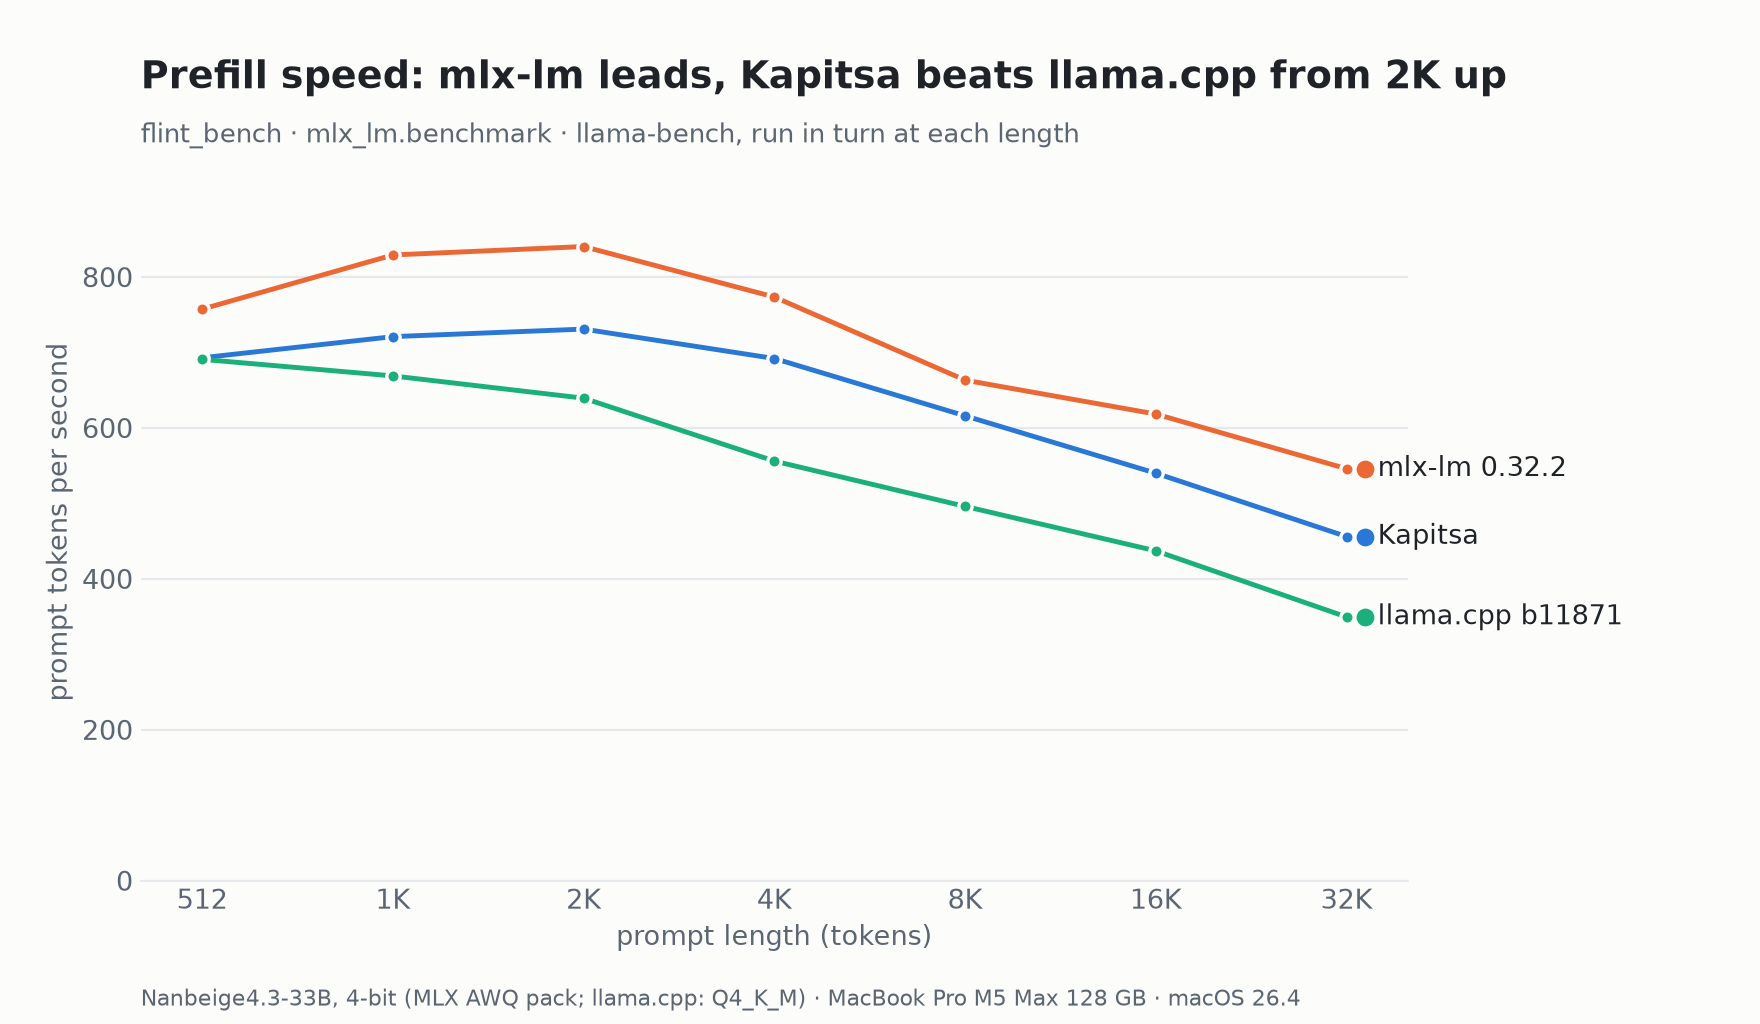
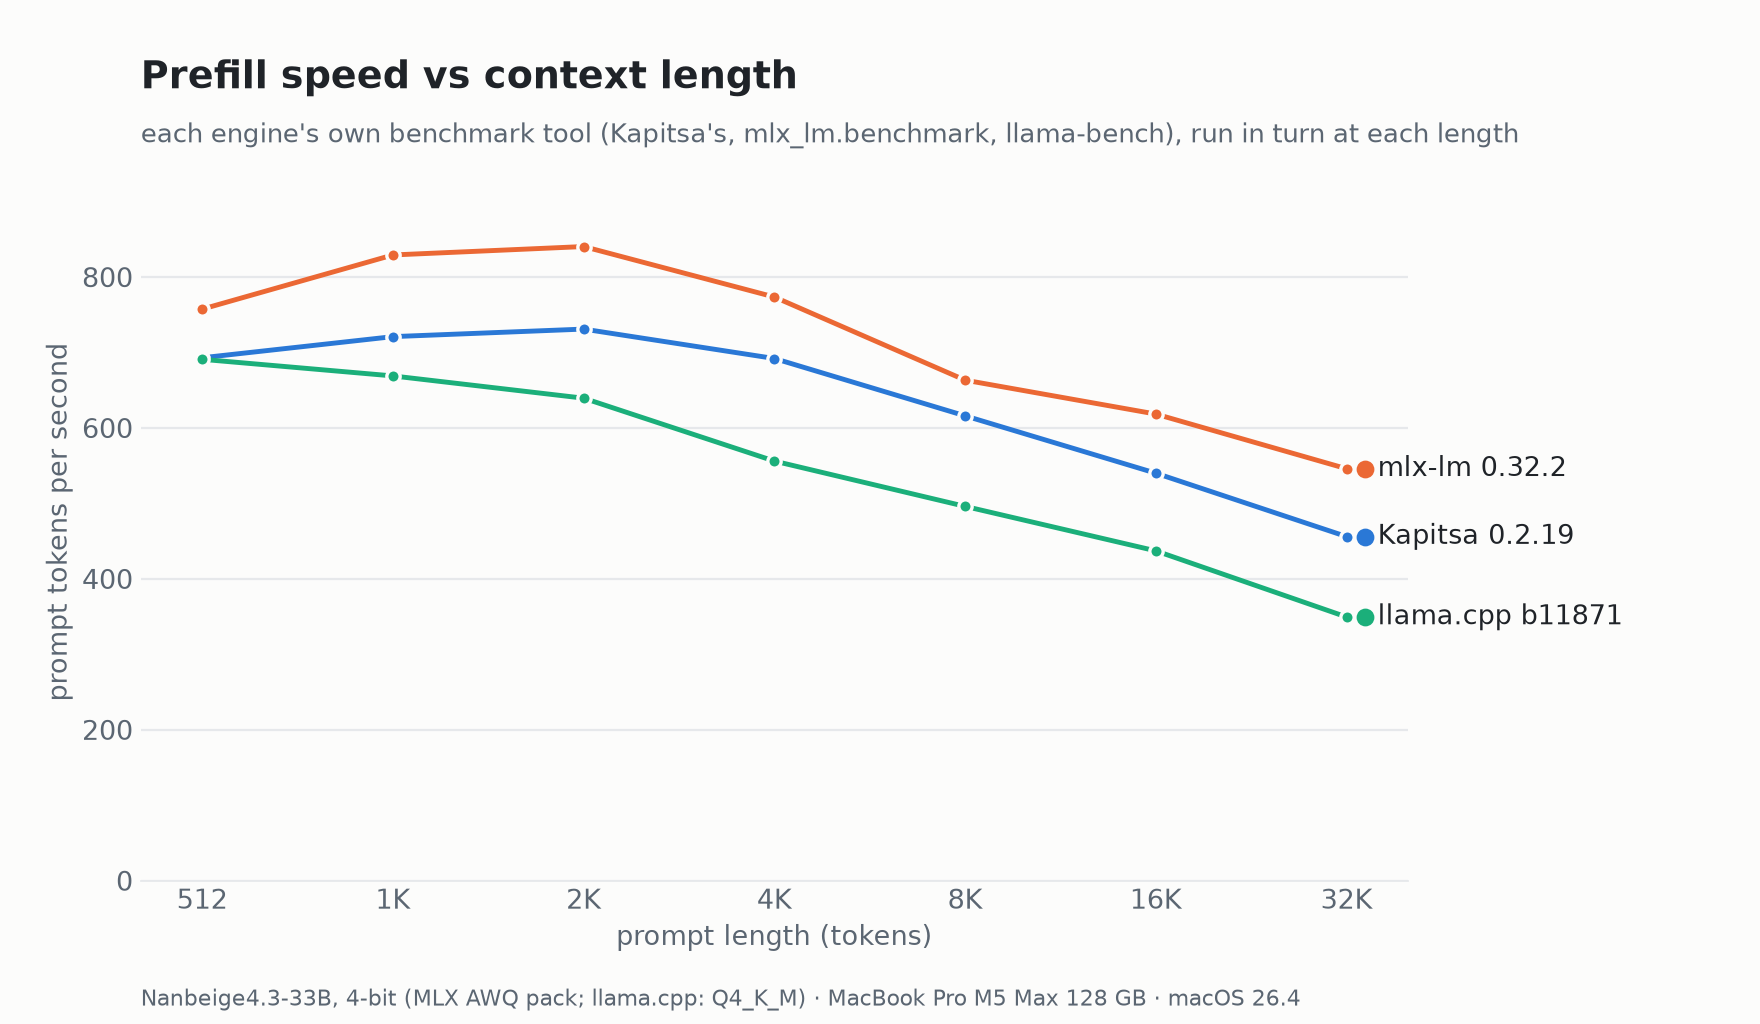
bench: Nanbeige4.3-33B's 2026-10-26 results gain the drafter's write / edit / explain runs (kflash-write/), the peak memory chart, and the chart scripts

Changed region(s): [[0.0625, 0.125, 0.875, 0.1562], [0.2188, 0.0625, 0.875, 0.0938], [0.8438, 0.5, 0.9062, 0.5312]]

diff --git a/bench/results/2026-10-26-m5-max-nanbeige/charts.py b/bench/results/2026-10-26-m5-max-nanbeige/charts.py
@@ -1,0 +1,136 @@
+# Reddit charts: Nanbeige4.3-33B prefill and decode speed from 512 to 32K tokens (flint_bench / mlx_lm.benchmark /
+# llama-bench sweep), plus time to first token cold and on a follow-up turn (the harness at 7 sizes) when given.
+# usage: uv run --with matplotlib python charts.py SWEEP_DIR OUT_DIR [HARNESS_RESULTS_DIR]
+import glob, json, os, re, sys
+import matplotlib
+matplotlib.use("Agg")
+import matplotlib.pyplot as plt
+from matplotlib import font_manager
+
+sweep, out = sys.argv[1], sys.argv[2]
+harness = sys.argv[3] if len(sys.argv) > 3 else None
+os.makedirs(out, exist_ok=True)
+
+# the reference palette's first three categorical slots (validated: CVD 9.2, normal 27.6; aqua under 3:1 on the
+# surface, so every line is direct-labeled and the post carries the table)
+ENG = [("Kapitsa 0.2.19", "#2a78d6"), ("mlx-lm 0.32.2", "#eb6834"), ("llama.cpp b11871", "#1baf7a")]
+SURFACE, INK, INK2, GRID = "#fcfcfb", "#1f2328", "#5b6672", "#e6e8eb"
+
+def rd(p):
+    try:
+        return open(p).read()
+    except OSError:
+        return ""
+
+lens = sorted({int(re.search(r"-(\d+)\.txt$", f).group(1)) for f in glob.glob(os.path.join(sweep, "kapitsa-*.txt"))})
+def kap(n):
+    m = re.search(r"\((\d+) tok/s, GPU.*?\(([\d.]+) tok/s", rd(f"{sweep}/kapitsa-{n}.txt"))
+    return (float(m.group(1)), float(m.group(2))) if m else (None, None)
+def mlx(n):
+    m = re.search(r"Averages: prompt_tps=([\d.]+), generation_tps=([\d.]+)", rd(f"{sweep}/mlxlm-{n}.txt"))
+    return (float(m.group(1)), float(m.group(2))) if m else (None, None)
+def llc(n):
+    a = re.search(r"pp\d+ \|\s+([\d.]+)", rd(f"{sweep}/llamacpp-pp-{n}.txt"))
+    b = re.search(r"tg\d+ @ d\d+ \|\s+([\d.]+)", rd(f"{sweep}/llamacpp-tg-{n}.txt"))
+    return (float(a.group(1)) if a else None, float(b.group(1)) if b else None)
+data = {e: [f(n) for n in lens] for (e, _), f in zip(ENG, (kap, mlx, llc))}
+
+def lab(n):
+    if n % 1024 == 0:
+        return str(n) if n < 1024 else f"{n // 1024}K"
+    return str(n) if n < 1000 else f"{n / 1000:.1f}K".replace(".0K", "K")
+
+def style(ax, title, sub, ylabel):
+    ax.set_facecolor(SURFACE)
+    for s in ("top", "right", "left"):
+        ax.spines[s].set_visible(False)
+    ax.spines["bottom"].set_color(GRID)
+    ax.tick_params(colors=INK2, labelsize=12, length=0)
+    ax.grid(axis="y", color=GRID, linewidth=1)
+    ax.set_axisbelow(True)
+    ax.set_ylabel(ylabel, color=INK2, fontsize=12)
+    ax.set_xlabel("prompt length (tokens)", color=INK2, fontsize=12)
+    ax.set_title(title, loc="left", color=INK, fontsize=17, fontweight="bold", pad=34)
+    ax.text(0, 1.03, sub, transform=ax.transAxes, color=INK2, fontsize=11.5)
+
+def line_chart(xs, series, title, sub, ylabel, fname, fmt, ymin0=True):
+    fig, ax = plt.subplots(figsize=(11, 6.4), dpi=160)
+    fig.patch.set_facecolor(SURFACE)
+    style(ax, title, sub, ylabel)
+    ends = []
+    for name, color, ys in series:
+        pts = [(x, y) for x, y in zip(xs, ys) if y is not None]
+        if not pts:
+            continue
+        ax.plot([p[0] for p in pts], [p[1] for p in pts], color=color, linewidth=2.2, marker="o", markersize=6,
+                markeredgecolor=SURFACE, markeredgewidth=1.5, zorder=3, solid_capstyle="round")
+        ends.append([pts[-1][1], name, color, pts[-1][0]])
+    ax.set_xscale("log", base=2)
+    ax.set_xticks(xs)
+    ax.set_xticklabels([lab(x) for x in xs])
+    ax.minorticks_off()
+    if ymin0:
+        top = max(y for _, _, ys in series for y in ys if y is not None)
+        import math
+        step = 10 ** math.floor(math.log10(top)) / 2
+        ax.set_ylim(0, math.ceil(top * 1.08 / step) * step)
+    lo, hi = ax.get_ylim()
+    # direct labels at the right end, nudged apart so they never collide; text in ink, a colored dot beside it
+    ends.sort(key=lambda e: e[0])
+    gap = (hi - lo) * 0.055
+    for i in range(1, len(ends)):
+        if ends[i][0] - ends[i - 1][0] < gap:
+            ends[i][0] = ends[i - 1][0] + gap
+    for y, name, color, x in ends:
+        ax.annotate(name, xy=(x, y), xytext=(14, 0), textcoords="offset points", va="center", fontsize=12, color=INK,
+                    annotation_clip=False)
+        ax.plot([x * 1.07], [y], marker="o", markersize=7, color=color, clip_on=False, zorder=4)
+    ax.set_xlim(xs[0] / 1.25, xs[-1] * 1.25)
+    fig.subplots_adjust(left=0.08, right=0.80, top=0.84, bottom=0.14)
+    fig.text(0.08, 0.018, "Nanbeige4.3-33B, 4-bit (MLX AWQ pack; llama.cpp: Q4_K_M) · MacBook Pro M5 Max 128 GB · macOS 26.4",
+             color=INK2, fontsize=10)
+    fig.savefig(os.path.join(out, fname), facecolor=SURFACE)
+    plt.close(fig)
+    print("wrote", fname)
+
+sub = "each engine's own benchmark tool (Kapitsa's, mlx_lm.benchmark, llama-bench), run in turn at each length"
+line_chart(lens, [(e, c, [v[0] for v in data[e]]) for e, c in ENG],
+           "Prefill speed vs context length", sub, "prompt tokens per second",
+           "prefill.png", "{:.0f}")
+line_chart(lens, [(e, c, [v[1] for v in data[e]]) for e, c in ENG],
+           "Decode speed vs context length (no speculative decoding)", sub + " (64 tokens after the prompt)",
+           "generated tokens per second", "decode.png", "{:.1f}")
+
+if harness:
+    recs = {}
+    for f in glob.glob(os.path.join(harness, "*.json")):
+        try:
+            j = json.load(open(f))
+        except Exception:
+            continue
+        if not isinstance(j, dict) or "prefill" not in j:
+            continue
+        eng = {"kapitsa": "Kapitsa 0.2.19", "mlx-lm": "mlx-lm 0.32.2", "llama.cpp": "llama.cpp b11871"}.get(j.get("engine"), j.get("engine"))
+        recs[eng] = j
+    sizes = sorted({r["target"] for j in recs.values() for r in j["prefill"]})
+    def ttft(j, n):
+        p = next((r for r in j["prefill"] if r["target"] == n), {})
+        return p.get("ttft_s"), p.get("turn2_ttft_s"), p.get("prompt_tokens")
+    toks = [next((ttft(recs[e], n)[2] for e in recs if ttft(recs[e], n)[2]), n) for n in sizes]
+    if sizes:
+        line_chart(toks, [(e, c, [ttft(recs[e], n)[0] if e in recs else None for n in sizes]) for e, c in ENG],
+                   "Time to first token, cold prompt", "each engine's own server, real chat prompts, thinking off",
+                   "seconds", "ttft_cold.png", "{:.2f}")
+        line_chart(toks, [(e, c, [ttft(recs[e], n)[1] if e in recs else None for n in sizes]) for e, c in ENG],
+                   "Time to first token on a follow-up turn", "the conversation so far cached, a new user turn added",
+                   "seconds", "ttft_followup.png", "{:.2f}")
+        # the server process's peak physical footprint by the end of each prompt size (the harness runs them in
+        # ascending order after decode, so each point is the high-water mark up to that context)
+        def mem(j, n):
+            v = (j.get("memory") or {}).get(f"prefill_{n}") or {}
+            return v["phys_footprint_peak_mb"] / 1024 if "phys_footprint_peak_mb" in v else None
+        line_chart(toks, [(e, c, [mem(recs[e], n) if e in recs else None for n in sizes]) for e, c in ENG],
+                   "Peak memory as the context grows", "the server process's peak physical footprint, weights included",
+                   "GB", "memory.png", "{:.1f}")
+    json.dump({e: {str(n): ttft(recs[e], n) for n in sizes} for e in recs}, open(os.path.join(out, "harness.json"), "w"))
+json.dump({e: dict(zip(map(str, lens), data[e])) for e in data}, open(os.path.join(out, "sweep.json"), "w"))

diff --git a/bench/results/2026-10-26-m5-max-nanbeige/kflash-write/chart_write.py b/bench/results/2026-10-26-m5-max-nanbeige/kflash-write/chart_write.py
@@ -1,0 +1,46 @@
+# Decode speed writing code: Kapitsa with KFlash, mlx-lm and llama.cpp (no speculation).
+# usage: uv run --with matplotlib python chart_write.py results.jsonl OUT.png
+import json, sys
+from statistics import mean
+import matplotlib
+matplotlib.use("Agg")
+import matplotlib.pyplot as plt
+
+rows = [json.loads(l) for l in open(sys.argv[1]) if l.startswith("{") and json.loads(l)["task"] == "write code"]
+ENG = [("kapitsa-auto", "Kapitsa 0.2.19 (KFlash)", "#2a78d6"),
+       ("mlx-lm", "mlx-lm 0.32.2 (no spec)", "#eb6834"), ("llama.cpp", "llama.cpp b11871 (no spec)", "#1baf7a")]
+TS = [(0.0, "greedy (T 0)"), (0.6, "sampled (T 0.6)")]
+SURFACE, INK, INK2, GRID = "#fcfcfb", "#1f2328", "#5b6672", "#e6e8eb"
+
+def val(e, T):
+    return mean(r["tps"] for r in rows if r["engine"] == e and r["T"] == T)
+
+fig, ax = plt.subplots(figsize=(11, 6.4), dpi=160)
+fig.patch.set_facecolor(SURFACE)
+ax.set_facecolor(SURFACE)
+for s in ("top", "right", "left"):
+    ax.spines[s].set_visible(False)
+ax.spines["bottom"].set_color(GRID)
+ax.tick_params(colors=INK2, labelsize=12, length=0)
+ax.grid(axis="y", color=GRID, linewidth=1)
+ax.set_axisbelow(True)
+W, top = 0.25, max(r["tps"] for r in rows)
+for i, (e, name, color) in enumerate(ENG):
+    for j, (T, _) in enumerate(TS):
+        v, x = val(e, T), j + (i - 1) * W
+        ax.bar(x, v, W * 0.9, color=color, edgecolor=SURFACE, linewidth=1, zorder=3, label=name if j == 0 else None)
+        ax.text(x, v + top * 0.012, f"{v:.1f}", ha="center", va="bottom", fontsize=11, color=INK)
+ax.set_xticks(range(len(TS)))
+ax.set_xticklabels([t for _, t in TS])
+ax.set_ylim(0, top * 1.12)
+ax.set_ylabel("generated tokens per second", color=INK2, fontsize=12)
+fig.suptitle("Writing code with speculative decoding", x=0.08, ha="left", color=INK, fontsize=17,
+             fontweight="bold", y=0.97)
+fig.text(0.08, 0.885, "a 512-token Python function with unit tests, each engine's own server, mean of two runs",
+         color=INK2, fontsize=11.5)
+fig.legend(*ax.get_legend_handles_labels(), loc="lower center", ncol=3, frameon=False, fontsize=11, labelcolor=INK,
+           bbox_to_anchor=(0.5, 0.05))
+fig.text(0.08, 0.015, "Nanbeige4.3-33B, 4-bit (MLX AWQ pack; llama.cpp: Q4_K_M) · MacBook Pro M5 Max 128 GB · macOS 26.4",
+         color=INK2, fontsize=10)
+fig.subplots_adjust(left=0.08, right=0.98, top=0.83, bottom=0.24)
+fig.savefig(sys.argv[2], facecolor=SURFACE)

diff --git a/bench/results/2026-10-26-m5-max-nanbeige/kflash-write/stream.py b/bench/results/2026-10-26-m5-max-nanbeige/kflash-write/stream.py
@@ -1,0 +1,37 @@
+# Decode speed per task on any OpenAI-compatible server, streamed: tokens after the first one / time after the first one.
+# usage: stream.py BASE_URL MODEL REPO LABEL
+import json, sys, time, urllib.request
+base, model, repo, label = sys.argv[1:5]
+src = open(f"{repo}/tools/readme_images/reddit_grid.py").read().splitlines()[:120]
+code = "\n".join(src)
+work = {
+    "write code": "Write a Python function that merges two sorted lists into one sorted list, with a docstring and three "
+                  "unit tests using unittest.",
+    "edit code": "Add a short docstring to every function in this file and return the whole file, unchanged otherwise, "
+                 "in one code block.\n\n```python\n" + code + "\n```",
+    "explain code": "Explain what this code does, function by function.\n\n```python\n" + code + "\n```",
+}
+def run(p, temp):
+    body = {"model": model, "messages": [{"role": "user", "content": p}], "max_tokens": 512, "temperature": temp,
+            "top_p": 0.95, "top_k": 20, "stream": True, "stream_options": {"include_usage": True},
+            "chat_template_kwargs": {"enable_thinking": False}}
+    req = urllib.request.Request(base + "/chat/completions", json.dumps(body).encode(), {"Content-Type": "application/json"})
+    t0 = time.time(); first = last = None; n = None
+    with urllib.request.urlopen(req, timeout=900) as r:
+        for line in r:
+            line = line.decode().strip()
+            if not line.startswith("data:") or line == "data: [DONE]":
+                continue
+            d = json.loads(line[5:])
+            if d.get("usage"):
+                n = d["usage"]["completion_tokens"]
+            for c in d.get("choices") or []:
+                if (c.get("delta") or {}).get("content"):
+                    last = time.time(); first = first or last
+    return n, (n - 1) / (last - first), first - t0
+run("Say hi.", 0.0)  # warm-up
+for name, p in work.items():
+    for temp in (0.0, 0.6):
+        for i in range(2):
+            n, tps, ttft = run(p, temp)
+            print(json.dumps({"engine": label, "task": name, "T": temp, "tokens": n, "tps": round(tps, 2), "ttft": round(ttft, 2)}), flush=True)

diff --git a/bench/results/2026-10-26-m5-max-nanbeige/README.md b/bench/results/2026-10-26-m5-max-nanbeige/README.md
@@ -71,3 +71,39 @@ Against the 2026-10-25 session:
 On the harness's decode prompt the drafter mostly falls back to plain decoding (about 1.1 tokens per cycle).
 
 The README poster's Nanbeige row takes its Kapitsa and llama.cpp cells from this run.
+
+## Peak memory by context
+
+`memory.png` plots each engine's server footprint peak (`phys_footprint_peak_mb`) at the end of each prompt size's phase, from the
+records in `harness/`. The harness runs the sizes in ascending order after decode, so each point is the peak up to that context.
+
+| Context reached | mlx-lm | llama.cpp | Kapitsa |
+| ---: | ---: | ---: | ---: |
+| 532 | 21.9 GB | 28.0 GB | 22.6 GB |
+| 4.1K | 24.9 GB | 29.1 GB | 22.8 GB |
+| 16.1K | 36.7 GB | 32.0 GB | 25.4 GB |
+| 29.5K | 52.1 GB | 35.5 GB | 28.1 GB |
+
+## Writing code with speculative decoding: `kflash-write/`
+
+`kflash-write/stream.py` sends three coding requests (write, edit and explain code), each with a 512-token answer, to an
+OpenAI-compatible server. Each request runs twice at T 0 and twice at T 0.6. The decode rate is measured from the first
+streamed token to the last.
+
+The servers were:
+
+- Kapitsa with its drafter (`kapitsa-auto`, the default) and without it (`NI_DFLASH=none`), on main 4c16060 (before #689).
+- mlx-lm 0.32.2 and llama.cpp b11871, with no speculative decoding.
+
+The records are in `results.jsonl`, and `chart_write.py` draws `spec_write.png` from its write-code rows.
+
+| Task (T 0 / T 0.6), tok/s | Kapitsa + drafter | Kapitsa, no drafter | mlx-lm | llama.cpp |
+| --- | ---: | ---: | ---: | ---: |
+| write code | 36.6 / 32.3 | 27.8 / 27.6 | 27.1 / 26.7 | 24.9 / 24.8 |
+| edit code | 25.1 / 25.3 | 27.2 / 27.0 | 26.2 / 25.8 | 24.0 / 23.8 |
+| explain code | 27.1 / 26.0 | 27.1 / 26.9 | 26.2 / 25.9 | 23.8 / 23.8 |
+
+The drafter pays on writing code. On the edit request it cost about 7% against plain decoding. At long context it
+drafted where drafting loses, until #689 (32K keys: 11.0 to 18.9 tok/s, against 20.0 without the drafter).
+
+`charts.py` draws the other five charts: `charts.py context-sweep OUT harness`.
